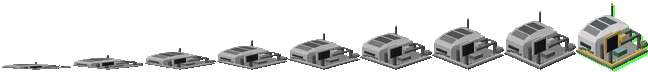
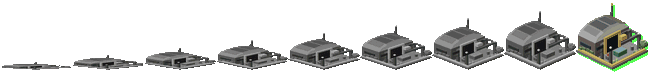
Yard and Refinery off white: stock-concrete grey with surface detail (issue #128)
The owner's first live look put the two largest buildings in a base, the
Construction Yard and the Materials Refinery, in pale-steel white beside the
stock barracks and the roster's own greys, where they read as another mod's
buildings. Four materials were rendered through the real pipeline beside four
shipped neighbours; the owner chose LEGACY_GRAY, stock Red Alert's concrete
value, for these two only. A grey box that size then needed marks: windows,
louvres and sill seams on the walls the camera sees, a walkway, window band,
ladder and process pipe on the Refinery's tower, a grate over the hopper, a
control cabin and a silo catwalk; a vent stack, drums, a parts stack and
gantry work lights on the Yard. Gold accents and PV roofs unchanged.

Remap counts hold (sgfact 389/389, sgproc 311->305 where the pipe occludes the
band); check-yaml exits 0 across 75 maps; missing-sprites unchanged;
check-scripts passes; generators byte-identical on a second run, first run
changed only the six Yard/Refinery sheets. Not verified live.

Claude-Session: https://claude.ai/code/session_01RMpaweDkdh9CMAR3q9WMob

diff --git a/mods/sungrid/bits/gen_concept_art.py b/mods/sungrid/bits/gen_concept_art.py
@@ -1821,10 +1821,13 @@ def sgproc_mesh(damaged=False, belt=0):
     climbing from the hopper to the tower, and two storage silos at the right
     corner. `belt` (0-7) advances the conveyor's cleats for the idle
     animation; damaged, the conveyor is broken, a roof tooth is burnt through,
-    the stack is down and a silo has lost its dome."""
+    the stack is down and a silo has lost its dome. The hall, hopper and
+    silos are LEGACY_GRAY, stock Red Alert's concrete value, since issue #128:
+    the PALE_STEEL first draft read as a white building on the ground beside
+    the stock ones and the rest of the roster."""
     m = Mesh()
     plinth(m, 27, live=not damaged)
-    hall = PALE_STEEL if not damaged else mix(PALE_STEEL, DAMAGE_SCORCH, 0.2)
+    hall = LEGACY_GRAY if not damaged else mix(LEGACY_GRAY, DAMAGE_SCORCH, 0.2)
     frame_ = STEEL if not damaged else mix(STEEL, DAMAGE_SCORCH, 0.3)
     gold = SUN_GOLD if not damaged else RUST
     # Processing hall along the left flank, three PV teeth on its roof.
@@ -1835,6 +1838,13 @@ def sgproc_mesh(damaged=False, belt=0):
         pv = PANEL_BLUEBLACK if not (damaged and i == 1) else DAMAGE_SCORCH
         m.quad((-24.5, y0, 15), (-5.5, y0, 15), (-5.5, y1 - 0.6, 19.5), (-24.5, y1 - 0.6, 19.5), pv, order=1)
         m.box(-24.5, y1 - 0.6, 15, -5.5, y1, 19.5, dim(hall, 0.2), top=lit(hall, 0.15), shadow=False)
+    # Surface detail (issue #128): a ribbon window along the hall's left
+    # flank, a louvre set left of the door, and a seam line at sill height.
+    m.box(-25.6, 4, 9.0, -24.9, 22, 11.2, PANEL_BLUEBLACK, order=1, shadow=False, top_face=False)
+    m.box(-25.6, 4, 8.6, -24.9, 22, 9.0, dim(hall, 0.3), order=1, shadow=False, top_face=False)
+    for z in (10.0, 11.6, 13.2):
+        m.box(-24, -2.6, z, -19, -1.9, z + 0.8, dim(hall, 0.45), order=1, shadow=False, top_face=False)
+    m.box(-25.6, -2.6, 5.8, -5, -1.9, 6.4, dim(hall, 0.3), order=1, shadow=False, top_face=False)
     # Loading door on the hall's near end, framed in the team colour.
     m.box(-17, -2.5, 2.2, -9, -1.9, 8.5, dim(frame_, 0.4), top_face=False, shadow=False, order=1)
     for x0 in (-17.8, -9):
@@ -1845,6 +1855,16 @@ def sgproc_mesh(damaged=False, belt=0):
     # disc problem is a prism's cap); at order 0 the tower's walls sorted over it.
     m.box(7.4, 7.4, 13.5, 24.6, 24.6, 15.0, gold, order=1, shadow=False, top_face=False, accent=not damaged)
     m.box(9, 9, 26, 23, 23, 27.2, PANEL_BLUEBLACK, top=lit(PANEL_BLUEBLACK, 0.3), shadow=False)
+    # Tower detail (issue #128): a walkway band, a window band under the cap,
+    # a ladder up the near face, and the process pipe from the hall.
+    m.box(7.2, 7.2, 17.6, 24.8, 24.8, 18.4, lit(frame_, 0.3), order=1, shadow=False, top_face=False)
+    m.box(7.6, 7.6, 21.0, 24.4, 24.4, 22.6, PANEL_BLUEBLACK, order=1, shadow=False, top_face=False)
+    for x0 in (20.0, 22.2):
+        m.box(x0, 7.3, 3.0, x0 + 0.9, 7.9, 24.0, dim(frame_, 0.5), order=2, shadow=False, top_face=False)
+    for k in range(7):
+        m.box(20.0, 7.2, 4.5 + k * 2.8, 23.1, 7.9, 5.2 + k * 2.8, lit(frame_, 0.4), order=2, shadow=False, top_face=False)
+    m.strut((-5.5, 12, 12.0), (8.5, 12, 12.0), 0.9, frame_, cap=lit(frame_, 0.2), shadow=False)
+    m.strut((-5.5, 12, 9.0), (-5.5, 12, 12.0), 0.9, frame_, shadow=False)
     stack_h = 35 if not damaged else 29
     m.prism(20, 20, 27.2, stack_h, 1.7, dim(frame_, 0.25), sides=6, top=dim(frame_, 0.5), shadow=False)
     if damaged:
@@ -1853,6 +1873,12 @@ def sgproc_mesh(damaged=False, belt=0):
     m.box(-6, -26, 2.2, 8, -13, 9, dim(hall, 0.25), top=dim(LEGACY_GRAY_DARK, 0.2))
     for x0, y0, x1, y1 in ((-6.6, -26.6, 8.6, -25.6), (-6.6, -13.4, 8.6, -12.4), (-6.6, -26.6, -5.6, -12.4), (7.6, -26.6, 8.6, -12.4)):
         m.box(x0, y0, 9, x1, y1, 10, hall, top=lit(hall, 0.2), order=1, shadow=False)
+    # A grate across the hopper mouth (issue #128).
+    m.box(-6, -20.2, 8.6, 8, -19.2, 9.1, dim(hall, 0.5), top=dim(hall, 0.35), order=1, shadow=False)
+    m.box(0.5, -26, 8.6, 1.5, -13, 9.1, dim(hall, 0.5), top=dim(hall, 0.35), order=1, shadow=False)
+    # Control cabin beside the hopper, a window on its near face (issue #128).
+    m.box(11, -25, 2.2, 18, -19.5, 7.0, hall, top=dim(hall, 0.15))
+    m.box(12, -25.5, 4.2, 17, -24.9, 5.8, PANEL_BLUEBLACK, order=1, shadow=False, top_face=False)
     # Conveyor from the hopper up to the tower, cleats climbing it.
     a, b = (1.0, -14.0, 9.5), (14.0, 9.0, 21.0)
     if damaged:
@@ -1862,8 +1888,8 @@ def sgproc_mesh(damaged=False, belt=0):
         for k in range(6):
             t = ((k + belt / 8.0) % 6) / 6.0
             cx, cy, cz = (a[i] + (b[i] - a[i]) * t for i in range(3))
-            m.box(cx - 1.0, cy - 1.0, cz + 1.6, cx + 1.0, cy + 1.0, cz + 2.3, lit(PALE_STEEL, 0.15),
-                  top=lit(PALE_STEEL, 0.3), order=1, shadow=False)
+            m.box(cx - 1.0, cy - 1.0, cz + 1.6, cx + 1.0, cy + 1.0, cz + 2.3, lit(LEGACY_GRAY, 0.15),
+                  top=lit(LEGACY_GRAY, 0.3), order=1, shadow=False)
     else:
         m.box(8, -3, 2.2, 13, 2, 3.6, dim(frame_, 0.3), top=DAMAGE_SCORCH, order=1, shadow=False)
     # Two storage silos at the right corner, hooped in the team colour.
@@ -1875,6 +1901,8 @@ def sgproc_mesh(damaged=False, belt=0):
         else:
             dome(m, cx, cy, 16, 4.6, hall, steps=3)
     m.strut((17, -11, 13), (10, -1, 13), 0.8, frame_)
+    # Catwalk between the silos (issue #128).
+    m.strut((17, -11, 14.2), (23, -20, 14.2), 0.9, lit(frame_, 0.3), shadow=False)
     # Planting: a bed and a tree in the near-left quadrant, clear of the PV roof (issue #108).
     bed(m, -24, -24, -10, -6, 2.2, lowcap=1.2, salt=15)
     tree(m, -21, -19, 2.2, h=8.0, r=4.2)
@@ -1890,10 +1918,12 @@ def sgfact_mesh(damaged=False, build=None, beacon=True):
     field on its sunward flank, a team-colour door frame, and an open assembly
     yard under a gantry crane. `build` (0..1) moves the crane trolley along
     the beam for the 25-frame placed-building animation; `beacon=False` is
-    the mast light's off frame in the idle animation (issue #109)."""
+    the mast light's off frame in the idle animation (issue #109). The hall is
+    LEGACY_GRAY since issue #128 (see sgproc_mesh), the PV field and the gold
+    door frame carry the silhouette."""
     m = Mesh()
     plinth(m, 25, z=2.0, live=not damaged)
-    hall = PALE_STEEL if not damaged else mix(PALE_STEEL, DAMAGE_SCORCH, 0.15)
+    hall = LEGACY_GRAY if not damaged else mix(LEGACY_GRAY, DAMAGE_SCORCH, 0.15)
     m.box(-24, 0, 2, 24, 24, 17, hall, top=lit(hall, 0.1))
     n = 6
     for i in range(n):
@@ -1912,6 +1942,14 @@ def sgfact_mesh(damaged=False, build=None, beacon=True):
     m.box(9, -1.2, 2, 11, 0.4, 18, door, top=lit(door, 0.2), order=2, shadow=False, accent=True)
     m.box(-11, -1.2, 16, 11, 0.4, 18, door, top=lit(door, 0.2), order=2, shadow=False, accent=True)
     m.box(-24.6, 6, 9, -23.8, 20, 12, PANEL_BLUEBLACK, top=PANEL_BLUEBLACK, order=1, shadow=False)
+    # Surface detail (issue #128): windows left of the door, louvres right of
+    # it, a seam at sill height, a vent stack on the vault's right shoulder.
+    m.box(-22, -0.7, 9.5, -13, 0.1, 12.0, PANEL_BLUEBLACK, order=1, shadow=False, top_face=False)
+    m.box(-22, -0.7, 9.0, -13, 0.1, 9.5, dim(hall, 0.3), order=1, shadow=False, top_face=False)
+    for z in (10.0, 11.6, 13.2):
+        m.box(14, -0.7, z, 21, 0.1, z + 0.8, dim(hall, 0.45), order=1, shadow=False, top_face=False)
+    m.box(-24, -0.7, 5.6, 24, 0.1, 6.2, dim(hall, 0.3), order=1, shadow=False, top_face=False)
+    m.prism(18, 19, 21.5, 26.5, 1.3, STEEL, sides=6, top=dim(STEEL, 0.4), shadow=False)
     vines(m, -24, 1, 23, 2.0, 8.5, salt=4, dark=True)
     for y in (-6, -18):
         m.strut((-20, y, 2), (-20, y, 17), 1.2, STEEL, cap=lit(STEEL, 0.3))
@@ -1929,6 +1967,14 @@ def sgfact_mesh(damaged=False, build=None, beacon=True):
         drop = 4 + 6 * math.sin(math.pi * build)
         m.strut((tx, -12, 16.2), (tx, -12, 16.2 - drop), 0.3, POLE_DARK, shadow=False)
     m.box(-6, -15, 2, 6, -8, 6, dim(GREEN_PRIMARY, 0.1), top=lit(GREEN_PRIMARY, 0.2))
+    # Yard clutter (issue #128): a parts stack and two drums by the right post,
+    # work lights on the front gantry posts.
+    m.box(-17, -12, 2, -12, -8, 5, STEEL, top=lit(STEEL, 0.3))
+    m.box(-16, -12, 5, -13, -9, 7.5, RUST, top=lit(RUST, 0.25))
+    m.prism(14.5, -14, 2, 5.5, 1.4, STEEL, sides=8, top=lit(STEEL, 0.35), shadow=False)
+    m.prism(16.5, -10.5, 2, 5.5, 1.4, RUST, sides=8, top=lit(RUST, 0.3), shadow=False)
+    for x in (-20, 20):
+        m.box(x - 0.9, -18.9, 17.2, x + 0.9, -17.1, 18.4, WORK_LIGHT, top=WORK_LIGHT, order=2, shadow=False)
     # Planted near-left corner of the yard, shrubs and grasses along its front
     # edge, a tree at the near-right corner (issue #108).
     bed(m, -22.5, -22.5, -12, -19.0, 2.0, lowcap=1.4, salt=7, step=3.0)
@@ -1941,7 +1987,7 @@ def sgfact_mesh(damaged=False, build=None, beacon=True):
     if not damaged and beacon:
         m.box(20.2, 20.2, 32, 21.8, 21.8, 33.4, SUN_GOLD, top=lit(SUN_GOLD, 0.3), order=4, shadow=False, accent=True)
     elif not damaged:
-        m.box(20.2, 20.2, 32, 21.8, 21.8, 33.4, dim(PALE_STEEL, 0.45), top=dim(PALE_STEEL, 0.3), order=4, shadow=False)
+        m.box(20.2, 20.2, 32, 21.8, 21.8, 33.4, dim(LEGACY_GRAY, 0.45), top=dim(LEGACY_GRAY, 0.3), order=4, shadow=False)
     if damaged:
         m.box(-22, -0.5, 4, -14, 0.2, 12, DAMAGE_SCORCH, top=DAMAGE_SCORCH, order=2, shadow=False)
         m.box(6, -20, 2, 14, -13, 4, mix(STEEL, DAMAGE_SCORCH, 0.5), top=DAMAGE_SCORCH)

diff --git a/CLAUDE.md b/CLAUDE.md
@@ -12,7 +12,7 @@ This repo follows the [OpenRAModSDK](https://github.com/OpenRA/OpenRAModSDK) pat
 - `engine/` — downloaded/built by `fetch-engine.sh` (or `make`), pinned via `mod.config`'s `ENGINE_VERSION`. Contains `OpenRA.Game`, `OpenRA.Mods.Common`, stock mods (`mods/ra`, `mods/cnc`, `mods/d2k`, `mods/ts`), etc. Gitignored — if a friction point genuinely needs an engine-level change, it usually does **not** need a separate personal fork repo: this repo's own pre-Phase-0 history already contains the full engine tree, so a fix can be pinned via an `engine-patch/*` branch built on the currently-pinned commit — see "Engine version pinning" below before touching `ENGINE_VERSION` or any `engine-patch/*` branch. Only reach for an actual personal fork of `OpenRA/OpenRA` if the needed base commit genuinely isn't already reachable in this repo's own history (see `docs/ARCHITECTURE.md`).
 
 **Mod/content territory — where Sungrid Protocol work actually happens:**
-- `mods/sungrid/` — **the Sungrid Protocol mod content**: real Red Alert-derived gameplay (rules/YAML, sequences, 75 maps, chrome layouts, fluent strings) plus all Sungrid-original content on top of it. Art generators live beside their output: `bits/gen_concept_art.py` (in-world sprites — every building as a `Mesh` solid since issue #106, including the Sungrid Construction Yard `sgfact` that `FACT` renders, each planting its own plot since issue #108 and animated since issue #109 — build-ups, rubble — derived from each building's own mesh for twelve actors since issue #125 — husks, idle, production and docking overlays, programmatic cameos — its paver aprons were withdrawn in issue #127; since issue #126 also the Materials Refinery `sgproc` that `PROC` renders, and `scene_cameo()`, which `gen_core_units.py` imports), `bits/gen_photo_cameos.py` (the shipped photographic cameos), `bits/gen_cursor_art.py`, `bits/gen_intro_music.py`, `bits/gen_arc_sounds.py` (the two arc-weapon reports, issue #110), `bits/gen_unit_effects.py` (issue #120 — projectiles, muzzle bloom and impact effects, the drone uplink pips, the drone and Hauler wrecks and smoke, the discharge death), `bits/gen_core_units.py` (issue #121 — the MCV and the Ore Truck: `Mesh` vehicles at 32 yaws on the stock frame layouts, with scene cameos since issue #123; its rifleman was withdrawn in #123), `bits/gen_world_scenery.py` (issue #122 — the six neutral scenery pieces, the Field Clinic and the Seed Vault on the stock frame layouts), `bits/reskin_terrain_palette.py`, `uibits/gen_chrome.py` (dialog/sidebar/loadscreens/mod icons/faction flags, and since issue #124 the glyph-atlas patch: stock yellow to sun gold, Random plaques). Regenerating is always safe — output depends only on the script.
+- `mods/sungrid/` — **the Sungrid Protocol mod content**: real Red Alert-derived gameplay (rules/YAML, sequences, 75 maps, chrome layouts, fluent strings) plus all Sungrid-original content on top of it. Art generators live beside their output: `bits/gen_concept_art.py` (in-world sprites — every building as a `Mesh` solid since issue #106, including the Sungrid Construction Yard `sgfact` that `FACT` renders, each planting its own plot since issue #108 and animated since issue #109 — build-ups, rubble — derived from each building's own mesh for twelve actors since issue #125 — husks, idle, production and docking overlays, programmatic cameos — its paver aprons were withdrawn in issue #127; since issue #126 also the Materials Refinery `sgproc` that `PROC` renders, and `scene_cameo()`, which `gen_core_units.py` imports; the Yard and the Refinery are on stock-concrete `LEGACY_GRAY` with surface detail since issue #128), `bits/gen_photo_cameos.py` (the shipped photographic cameos), `bits/gen_cursor_art.py`, `bits/gen_intro_music.py`, `bits/gen_arc_sounds.py` (the two arc-weapon reports, issue #110), `bits/gen_unit_effects.py` (issue #120 — projectiles, muzzle bloom and impact effects, the drone uplink pips, the drone and Hauler wrecks and smoke, the discharge death), `bits/gen_core_units.py` (issue #121 — the MCV and the Ore Truck: `Mesh` vehicles at 32 yaws on the stock frame layouts, with scene cameos since issue #123; its rifleman was withdrawn in #123), `bits/gen_world_scenery.py` (issue #122 — the six neutral scenery pieces, the Field Clinic and the Seed Vault on the stock frame layouts), `bits/reskin_terrain_palette.py`, `uibits/gen_chrome.py` (dialog/sidebar/loadscreens/mod icons/faction flags, and since issue #124 the glyph-atlas patch: stock yellow to sun gold, Random plaques). Regenerating is always safe — output depends only on the script.
 - `mods/sungrid-content/` — the content-installer mod. Sungrid Protocol reads Red Alert asset `.mix` files from `<SupportDir>/Content/ra/v2/`; this is the first-launch flow that fetches the official freeware package or extracts from a disc/Steam/Origin copy. Since issue #119 it draws on the game's own chrome (`sungrid|chrome.yaml` merged with its small `chrome.yaml`), cursors and `uibits/content-bg.png`; its `content.yaml` and the game's `chrome/lobby.yaml` are copies of the stock layouts with a header added — re-diff them against `engine/mods/common*` whenever `ENGINE_VERSION` moves.
 - `OpenRA.Mods.Sungrid/` — mod-specific C# project. `GridReserve/` holds the whole economic-victory mode (`GridReserveVault`, `GridReserveManager`, `GridReserveController`, `GridReserveBotModule`, and the HUD/briefing/standings logic); `LoadScreens/SungridLoadScreen.cs` is the stock logo-stripe load screen wrapped so it sets the window title as soon as the mod's fluent strings exist, instead of the engine's hard-coded "OpenRA" lasting through the whole load (issue #117); `Rendering/` still holds the SDK's two renamed example traits (`ColorPickerColorShift`, `PlayerColorShift`); `UtilityCommands/RefreshMapPreviewsCommand.cs` is `./utility.sh --refresh-map-previews <map>...`, which re-saves a map so its `map.png` is rendered from the current tileset colours (issue #119 — previews and the radar minimap come from `tilesets/*.yaml`'s terrain-type `Color:` entries, not the palette; `bits/reskin_tileset_colors.py` keeps those in step with the palette reskin); `Economy/` holds `SpawnsResourceOnDeath` (issue #86 — drops a small amount of a resource at an actor's death cell for a Harvester-type unit to auto-collect) and `ResourceDecayManager` (a World-actor `ITick` trait owning both of that drop's timers: issue #87's decay, which expires an uncollected drop so battlefield wreckage stays temporary, and issue #97's `SpawnDelay`, which holds the drop back for 30s before it appears at all); both unverified, no engine build available in this environment to compile against.
 - `mod.config`, `fetch-engine.sh`/`.cmd`, `Makefile`/`make.cmd`/`make.ps1`, `launch-game.*`, `launch-dedicated.*`, `utility.*`, `Sungrid.sln`, `packaging/` — SDK scaffolding, all mod-scale (not the engine's own build/packaging tooling). `packaging/artwork/` (the application icons for all three platform packages and the macOS DMG background) is generated output of `mods/sungrid/uibits/gen_chrome.py`, not hand-edited files, since issue #114 — before that it was still the SDK's "Ex" placeholder icon.
@@ -479,6 +479,19 @@ is the regression check.
     frame size on fixed colours only (`overlay_sheet()` asserts zero remap pixels), gated `!build-incomplete`.
     Corollary from issue #126: rule 15's `order=0` constraint is about a *prism's* top cap; a box band with
     `top_face=False` can and should take an `order` override, or the walls it wraps sort over it.
+27. **A hall-sized `PALE_STEEL` body reads as a white building in the game, and a big box needs marks (issue
+    #128).** `PALE_STEEL` (0xB2 0xB6 0xBC) was chosen for the concept renders' hangar white and it holds on small
+    parts - tanks, masts, dishes, the turret hull of rule 19 - but as the body of the two largest buildings it stood
+    out white on the ground beside the stock buildings and the rest of the roster, which is where the owner saw it.
+    The Construction Yard and the Materials Refinery are `LEGACY_GRAY`, stock Red Alert's concrete value (the
+    Cryptominer's body), chosen from a four-material composite rendered through the real pipeline; the PV roofs and
+    the gold trim carry the silhouette. The other pale-steel actors stay as they are until seen live. Same pass, same
+    lesson as rule 10 in the other direction: a plain box the size of a 3x3 footprint reads as a block, so each wall
+    the camera sees carries two or three marks (a window strip, a louvre set, a sill seam) as thin `top_face=False`
+    boxes at `order=1`, and the plot carries clutter (drums, a parts stack, a cabin, a grate, a catwalk, a pipe). Keep
+    every mark at or above a unit wide (rule 10) and off the gold radius (`dim(hall, ...)`, `PANEL_BLUEBLACK`,
+    `WORK_LIGHT`); check the remap count of frame 0 against the previous sheet - it must move only where an accent is
+    newly occluded. The before/after is `docs/concept-art/issue128-yard-refinery.png`.
 
 ### What can and can't be verified in this environment
 
@@ -598,7 +611,8 @@ widely, including `.lua`, when removing an actor).
   tileset (D4 - withdrawn in issue #127 after the first live look; stock bibs again), production and docking
   overlays (D6). Issue #126 took D5's first
   building, the Materials Refinery (`sgproc`, with the stock `proctop` overlay dropped for a conveyor animated in the
-  body). Still open from the survey: B7's later tiers, the rest of D5 (War Factory, the two barracks, the Tesla Coil
+  body); issue #128 re-toned it and the Yard to stock-concrete grey with surface detail after the first live look.
+  Still open from the survey: B7's later tiers, the rest of D5 (War Factory, the two barracks, the Tesla Coil
   as an Arc Pylon, each after a live look at the one before), and sections E–F.
 
 ## Working conventions

diff --git a/docs/BACKLOG.md b/docs/BACKLOG.md
@@ -4625,3 +4625,55 @@ screenshot is the before; the after is the stock look every pre-#125 build alrea
 validation as above - met.
 
 ---
+
+### 128. The Construction Yard and the Materials Refinery off white: stock-concrete grey, with surface detail
+
+**Type:** art / live-look correction · **Phase:** 6 · **Status:** done
+
+**Why.** The owner's first live look at a base (the same screenshot as issue #127): the Construction Yard (`sgfact`)
+and the Materials Refinery (`sgproc`) were `PALE_STEEL` white and did not sit with the stock buildings next to them,
+nor with the roster's own buildings. Both halls were the concept renders' hangar white; on the ground, next to a stock
+barracks and a Solar Array, the two largest buildings in the base read as a different mod. A second note from the
+same look: both wanted a little more detail.
+
+**What changed.**
+
+1. **Material.** Four candidates were rendered through the real pipeline (`to_indexed`, the player palette, a
+   team colour) in a row beside the shipped Hydrogen Plant, Drone Bay, Cryptominer and Solar Array on the
+   screenshot's ground colour: the current `PALE_STEEL`, `LEGACY_GRAY` (stock Red Alert's concrete value, the
+   Cryptominer's body), `dim(PALE_STEEL, 0.4)` and `STEEL` (the Drone Bay's body). The owner chose `LEGACY_GRAY`
+   for the two buildings only; the Hydrogen Plant's tanks, the Aerial Fab Bay, the Wind Turbine, the Sensor Array
+   and the Relay keep pale steel until seen live. In `sgfact_mesh()` and `sgproc_mesh()` every `PALE_STEEL` is
+   `LEGACY_GRAY` (the hall, the hopper, the silos, the conveyor cleats, the Yard's unlit beacon); the darker
+   `STEEL` frame members, the PV roofs and the gold accents are unchanged.
+2. **Detail, Refinery.** A ribbon window with a sill along the hall's left flank, a louvre set left of the door,
+   a seam at sill height; on the tower a walkway band at mid height, a window band under the PV cap and a ladder
+   up its near face; the process pipe from the hall to the tower with a riser; a two-bar grate across the hopper
+   mouth; a control cabin with a window beside the hopper; a catwalk between the two silos.
+3. **Detail, Yard.** A window strip with a sill left of the door and a louvre set right of it, a seam at sill
+   height along the near wall, a hexagonal vent stack on the vault's right shoulder, a parts stack (steel crate,
+   rust crate) and two drums in the yard, a work light on each front gantry post (`WORK_LIGHT`, the fixed tone
+   from the production overlays, so nothing new goes near the gold radius).
+4. Every mark is a `top_face=False` box at `order=1`/`2` on a wall the camera sees (the -x and -y faces at
+   `BUILDING_YAW`), at least 0.6-0.9 units thick so it survives the 4x downscale (rule 10), on `dim(hall, ...)`,
+   `PANEL_BLUEBLACK` or `WORK_LIGHT` so none of it lands on the remap ramp. Regenerated: `sgfact.png`,
+   `sgfactmake.png`, `sgproc.png`, `sgprocmake.png`, `sgprocdead.png` (the derived wreck follows its mesh) and
+   `sgprocicon.png` (the scene cameo follows the actor's art, rule 1); `sgfactdead.png` is not derived and is
+   unchanged, as is `FACT`'s stock cameo. Frame sizes and counts are unchanged, so no sequence YAML moves.
+
+**Verification.** Remap-ramp count of frame 0: `sgfact` 389 before and after, `sgproc` 311 to 305 (the new pipe
+occludes six pixels of the tower band) - the grey never routes onto the ramp. `./utility.sh --check-yaml` exits 0
+across all 75 maps; `--check-missing-sprites` reports exactly the same set as the issue #127 run; `make
+check-scripts` passes; the three generators are byte-identical on a second run and the first run changed only the
+six sheets above. `docs/concept-art/issue128-yard-refinery.png`: both buildings on `main` beside the Hydrogen Plant
+and the Cryptominer, then the new idle and damaged frames, at 3x. **Not verified live:** the marks at 1x on the
+battlefield; the owner's look is the test, as it was for the material.
+
+**Files:** `mods/sungrid/bits/gen_concept_art.py`, `mods/sungrid/bits/{sgfact,sgfactmake,sgproc,sgprocmake,sgprocdead,sgprocicon}.png`,
+`docs/concept-art/issue128-yard-refinery.png`, `docs/{VISUAL_PROPOSALS,ART_DIRECTION}.md`, `CLAUDE.md`,
+`CHANGELOG.md`.
+
+**Definition of done:** both buildings on the chosen grey with the detail above, the rest of the roster untouched,
+validation as above - met.
+
+---

diff --git a/docs/ART_DIRECTION.md b/docs/ART_DIRECTION.md
@@ -193,6 +193,11 @@ The material is the pale steel of the concept renders in `concept-art/cameo-sour
 
 **Follow-up: the paver aprons withdrawn (`docs/BACKLOG.md` issue #127).** The first live look at issue #125's section-D pass took one of its four items back. The grey paver grid under every Sungrid building — permeable pavers with grass joints, meant to replace Red Alert's tan concrete — read on screen as a tiled floor laid under the base, not as ground, and the owner's verdict was to go back to stock. Every Sungrid building stands on the stock `bib2` / `bib3` / `mb*` bibs again, the four apron sheets and their generator are gone. The rings, the wrecks and the work cues from the same pass stand. The lesson belongs with rule 15's: a building's plinth already carries the ground plane and the owner's colour; a second ground texture under it competes with both. Any future apron is a question of *less* under the building, not a different pattern.
 
+**Follow-up: the Yard and the Refinery off white (`docs/BACKLOG.md` issue #128).** The same live look as issue #127, second finding: the two largest buildings in a base, the Construction Yard and the Materials Refinery, were pale-steel white and read as a different mod's buildings beside the stock barracks and beside the roster's own greys. Four materials were rendered through the real pipeline in a row with the shipped Hydrogen Plant, Drone Bay, Cryptominer and Solar Array, and the owner picked stock Red Alert's concrete value — `LEGACY_GRAY`, the Cryptominer's body — for the two, leaving the smaller pale-steel parts (tanks, masts, dishes) for a later look. A grey box that size then needed marks, so each wall the camera sees carries a window strip or a louvre set and a sill seam, the Refinery's tower a walkway, a window band and a ladder, with the process pipe from the hall, a grate over the hopper, a control cabin and a catwalk between the silos; the Yard a vent stack on the vault, drums and a parts stack in the yard, and work lights on the gantry. The gold door frames, tower band, silo hoops and the PV roofs are unchanged and carry the silhouette. `docs/concept-art/issue128-yard-refinery.png` is the before and after.
+
+![Issue 128 review render: the Yard and the Refinery white on main, then grey with surface detail, idle and damaged.](concept-art/issue128-yard-refinery.png)
+
+
 
 ![Issue 123 review render: the Ore Truck and MCV scene cameos beside the Solar Array, Hauler Drone and Disruptor Trooper cameos.](concept-art/issue123-cameos.png)
 

diff --git a/docs/VISUAL_PROPOSALS.md b/docs/VISUAL_PROPOSALS.md
@@ -348,7 +348,7 @@ issue #127 and taken back: the owner's verdict was that the grey paver grid look
 (a tiled floor rather than ground), and every Sungrid building stands on the stock bibs again. Closed; do
 not re-propose without a different approach to the ground plane.
 
-**D5. [Refinery shipped, issue #126; WEAP, the barracks and TSLA open] Stock buildings still in the tree, ordered by screen time.**
+**D5. [Refinery shipped, issue #126, re-toned in #128; WEAP, the barracks and TSLA open] Stock buildings still in the tree, ordered by screen time.**
 Now: `PROC`, `WEAP`, `BARR`/`TENT`, `DOME`, `FIX`, `HPAD`, `AFLD`, `ATEK`/`STEK`, `SPEN`/`SYRD`, the stock
 defences (`PBOX`, `HBOX`, `GUN`, `AGUN`, `SAM`, `TSLA`, `GAP`), the superweapons. Proposal: `PROC`
 first (in every base, already renamed Materials Refinery, and the Depot beside it is a Sungrid solid),
@@ -357,6 +357,8 @@ Arc Pylon in the Arc Turret's vocabulary), then stop. Cost: M each. Kind: genera
 each, with build-up and rubble derived). Verify: as for every roster pass since issue #106.
 Shipped (first of four): the Materials Refinery, `sgproc_mesh()` on a new 90x72 frame family, conveyor
 animated in the body (the stock `proctop` overlay goes), wreck and build-up derived, apron from D4, scene cameo.
+Seen live in issue #128: the white hall read as a foreign building beside the stock ones; it and the Yard are
+stock-concrete grey now, with surface detail. The next D5 building starts from that material, not from pale steel.
 Not seen live; the War Factory, the two barracks and the Tesla Coil wait on that look.
 
 **D6. [shipped, issue #125] Production and docking have no animation on the Sungrid producers.**

diff --git a/CHANGELOG.md b/CHANGELOG.md
@@ -40,7 +40,9 @@ The detailed entries below track every issue through #116; this list maps them o
   and defences that used to vanish when destroyed, paver aprons with grass joints under every Sungrid building (taken back to the stock concrete bibs in
   issue #127 after the first live look),
   and work lights on the Drone Bays and a scrap cascade at the Depot while they work (issue #125); the Materials
-  Refinery as Sungrid art, with a running intake conveyor, its own wreck and a scene cameo (issue #126).
+  Refinery as Sungrid art, with a running intake conveyor, its own wreck and a scene cameo (issue #126); the
+  Construction Yard and the Refinery on stock-concrete grey instead of white, with windows, louvres, pipes, a
+  ladder, a hopper grate and yard clutter (issue #128).
 - **beta01**: the Sungrid app icons and disk-image background (issue #114), the plain "Sungrid Protocol"
   shortcut and app names (issue #115), and the beta-testing groundwork (issue #116).
 - **alpha39**: issues #110–#113 — the Arc Turret and Disruptor Trooper's arc weapon and discharge sounds,
